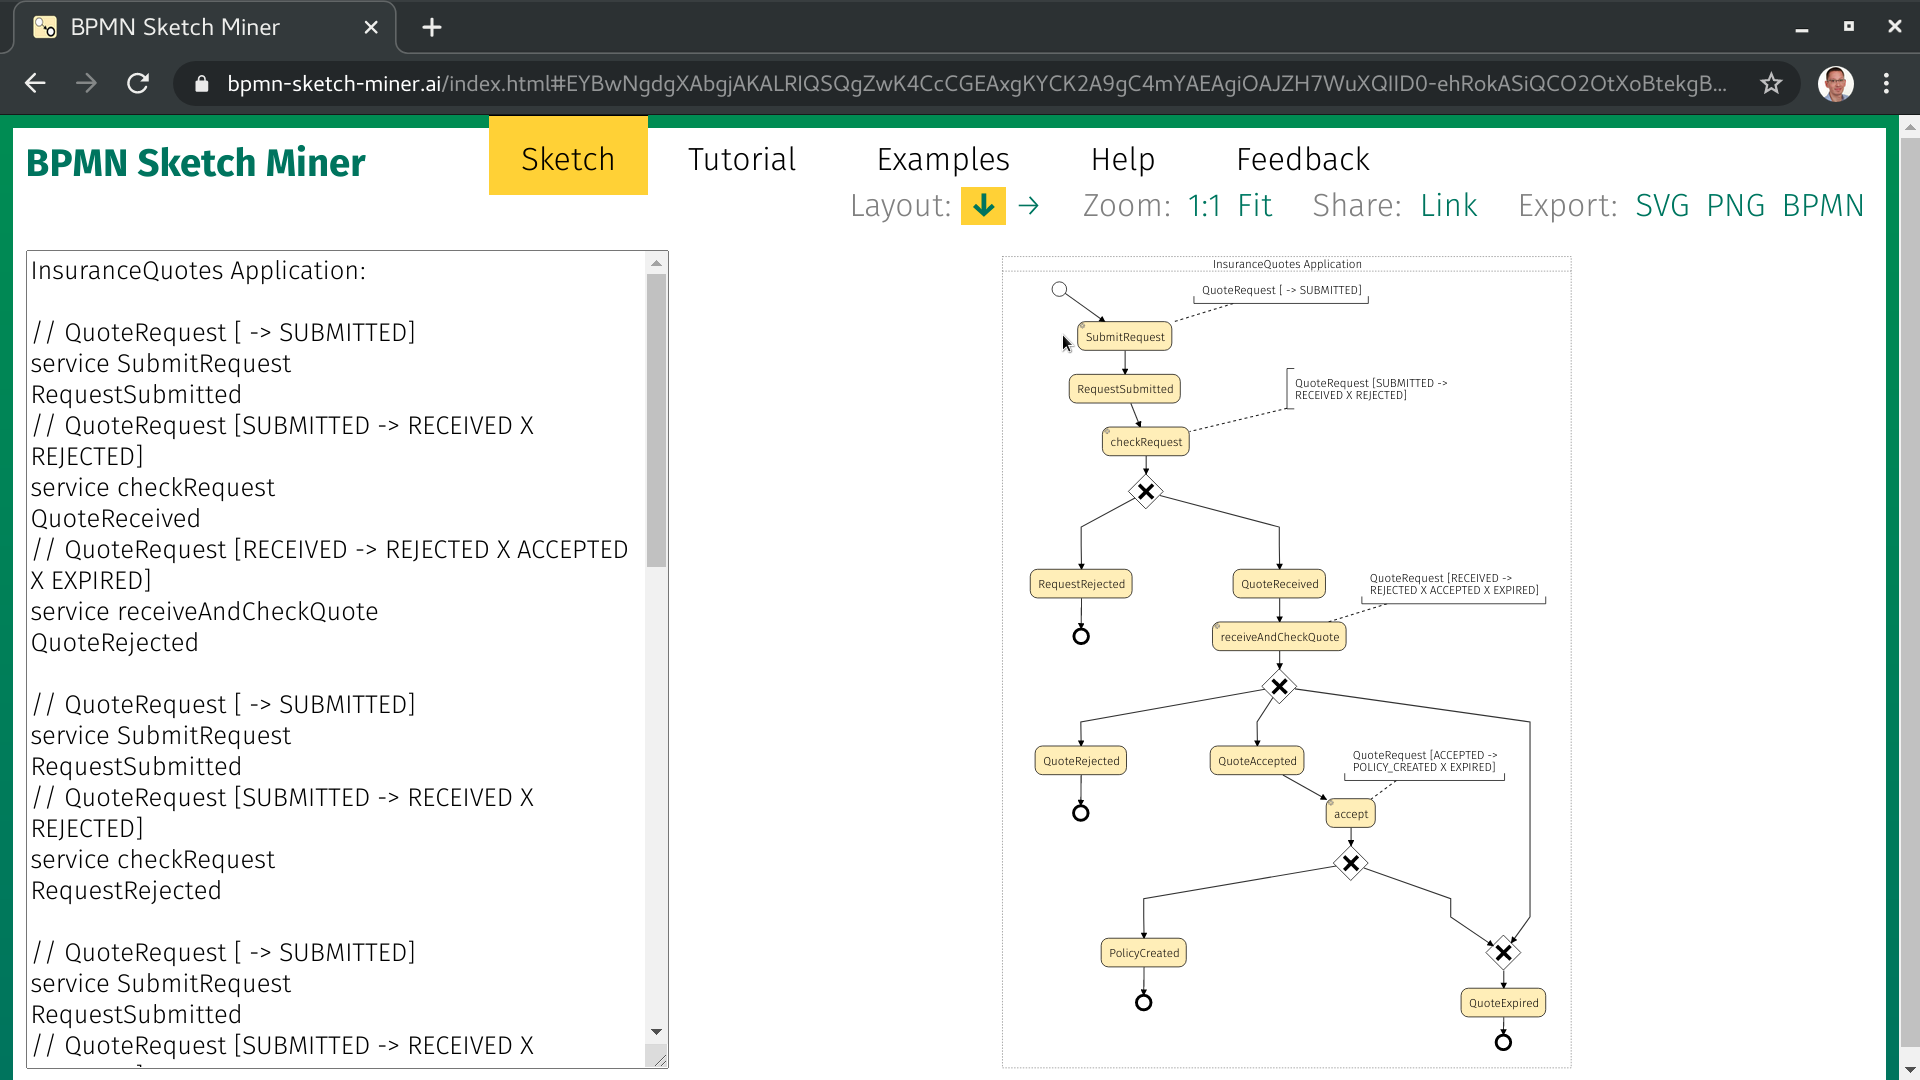
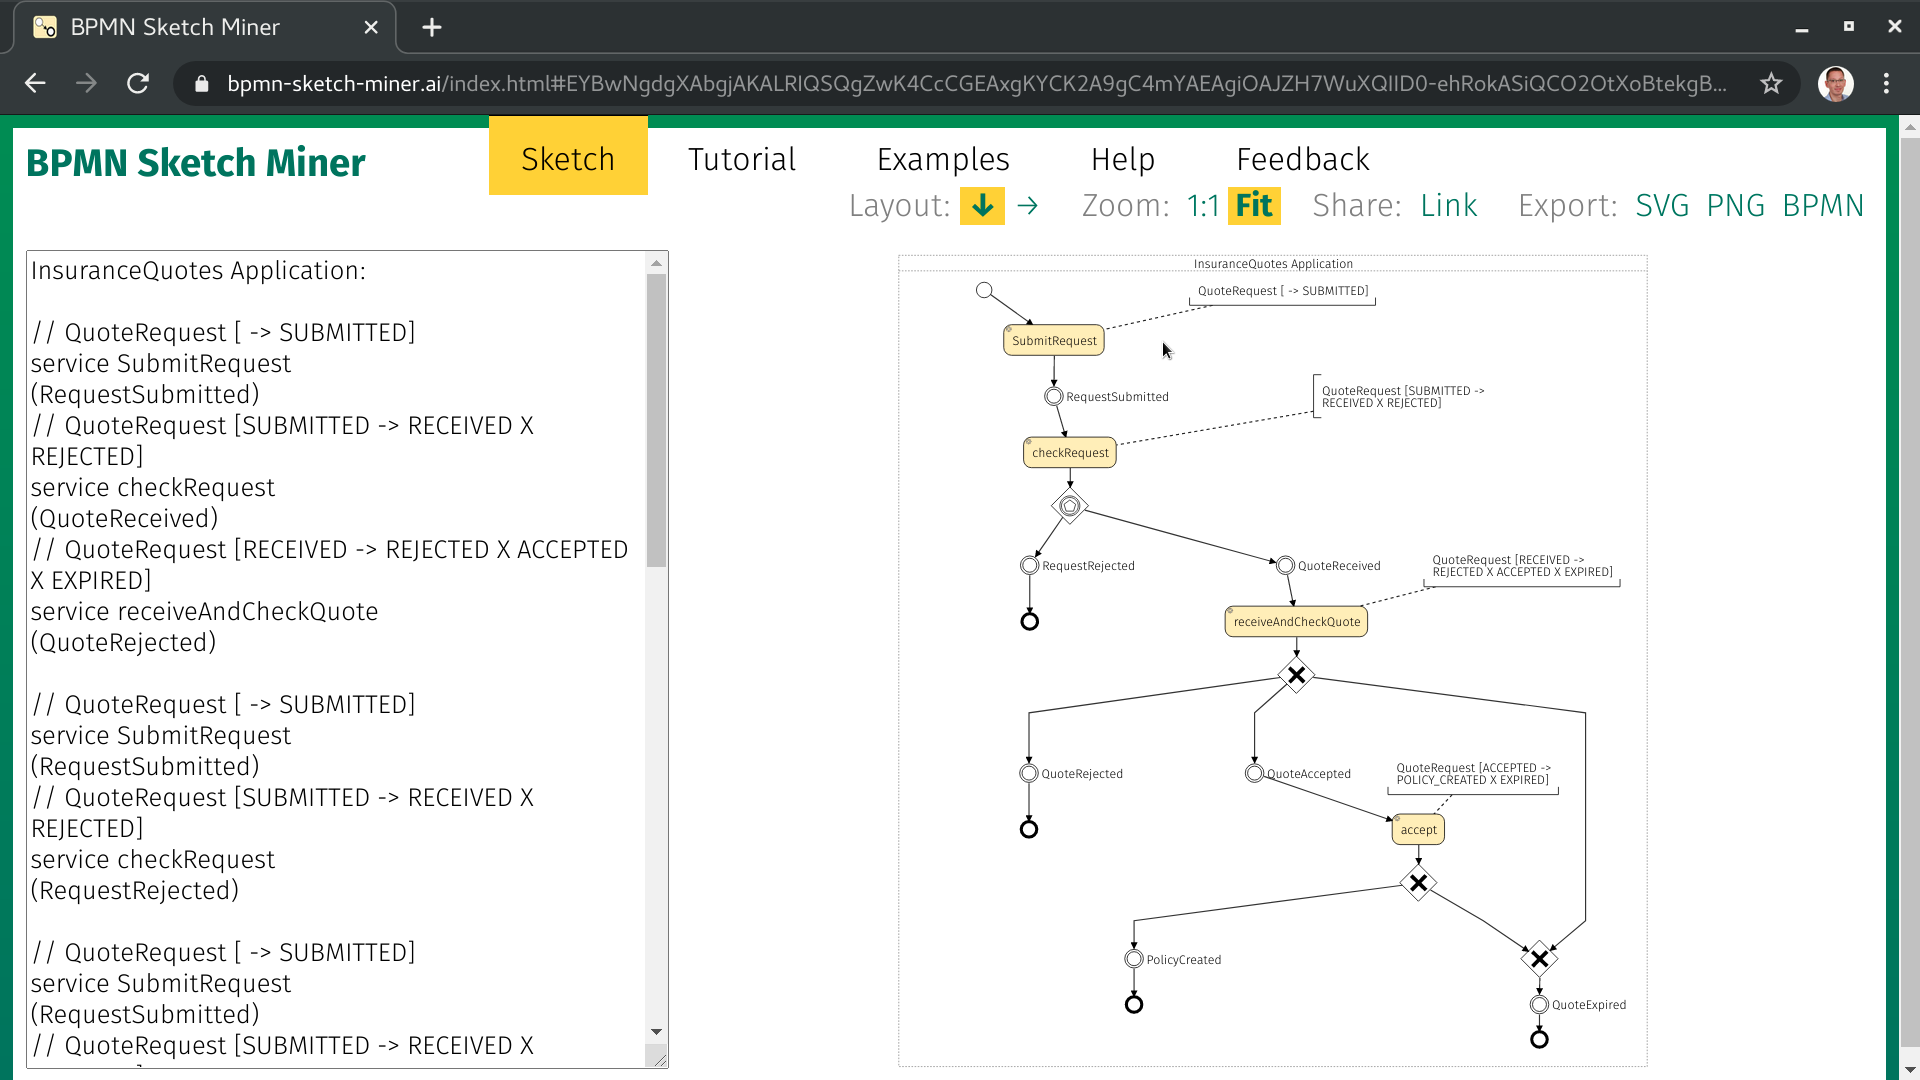
v6.3.0 release page (#52)

diff --git a/_news/2020-12-21-v6.3.0-released.md b/_news/2020-12-21-v6.3.0-released.md
@@ -1,0 +1,26 @@
+---
+layout: news
+title: "v6.3.0 Release Notes"
+author: Stefan Kapferer
+image: /img/sketch-miner-screenshot-3.png
+---
+
+Today we released version 6.3.0 of Context Mapper 🥳 
+
+With this release we improved the [BPMN Sketch Miner Generator](/docs/bpmn-sketch-miner/) we already introduced in [v6.2.0](/news/2020/12/17/v6.2.0-released/). We aligned the visualization of CML events to the BPMN notation and improved the handling of potential loops in your event/command flows.
+
+## Summary of Changes
+
+ * [Sketch Miner Generator Improvements](#sketch-miner-generator-improvements)
+ 
+As always, if you have any issues or other feedback, please [let us know](/getting-involved/).
+
+## Sketch Miner Generator Improvements
+
+We improved the visualization of our command/event flows powered by [BPMN Sketch Miner](https://www.bpmn-sketch-miner.ai/). The CML events are now properly mapped to Sketch Miner events and the visualization is therefore aligned with to the BPMN syntax:
+
+<a href="/img/bpmn-sketch-miner-in-vs-code-4.png" target="_blank">![Improved event visualization: an example](/img/bpmn-sketch-miner-in-vs-code-4.png)</a>
+
+In addition to the visual improvement, we fixed a problem in the generator implementation that led to exceptions when having loops inside event flows. Loops are now properly handled and no longer lead to such errors.
+
+Thats already it for this new release of Context Mapper. As always, if you have any issues or other feedback, please [let us know](/getting-involved/).
